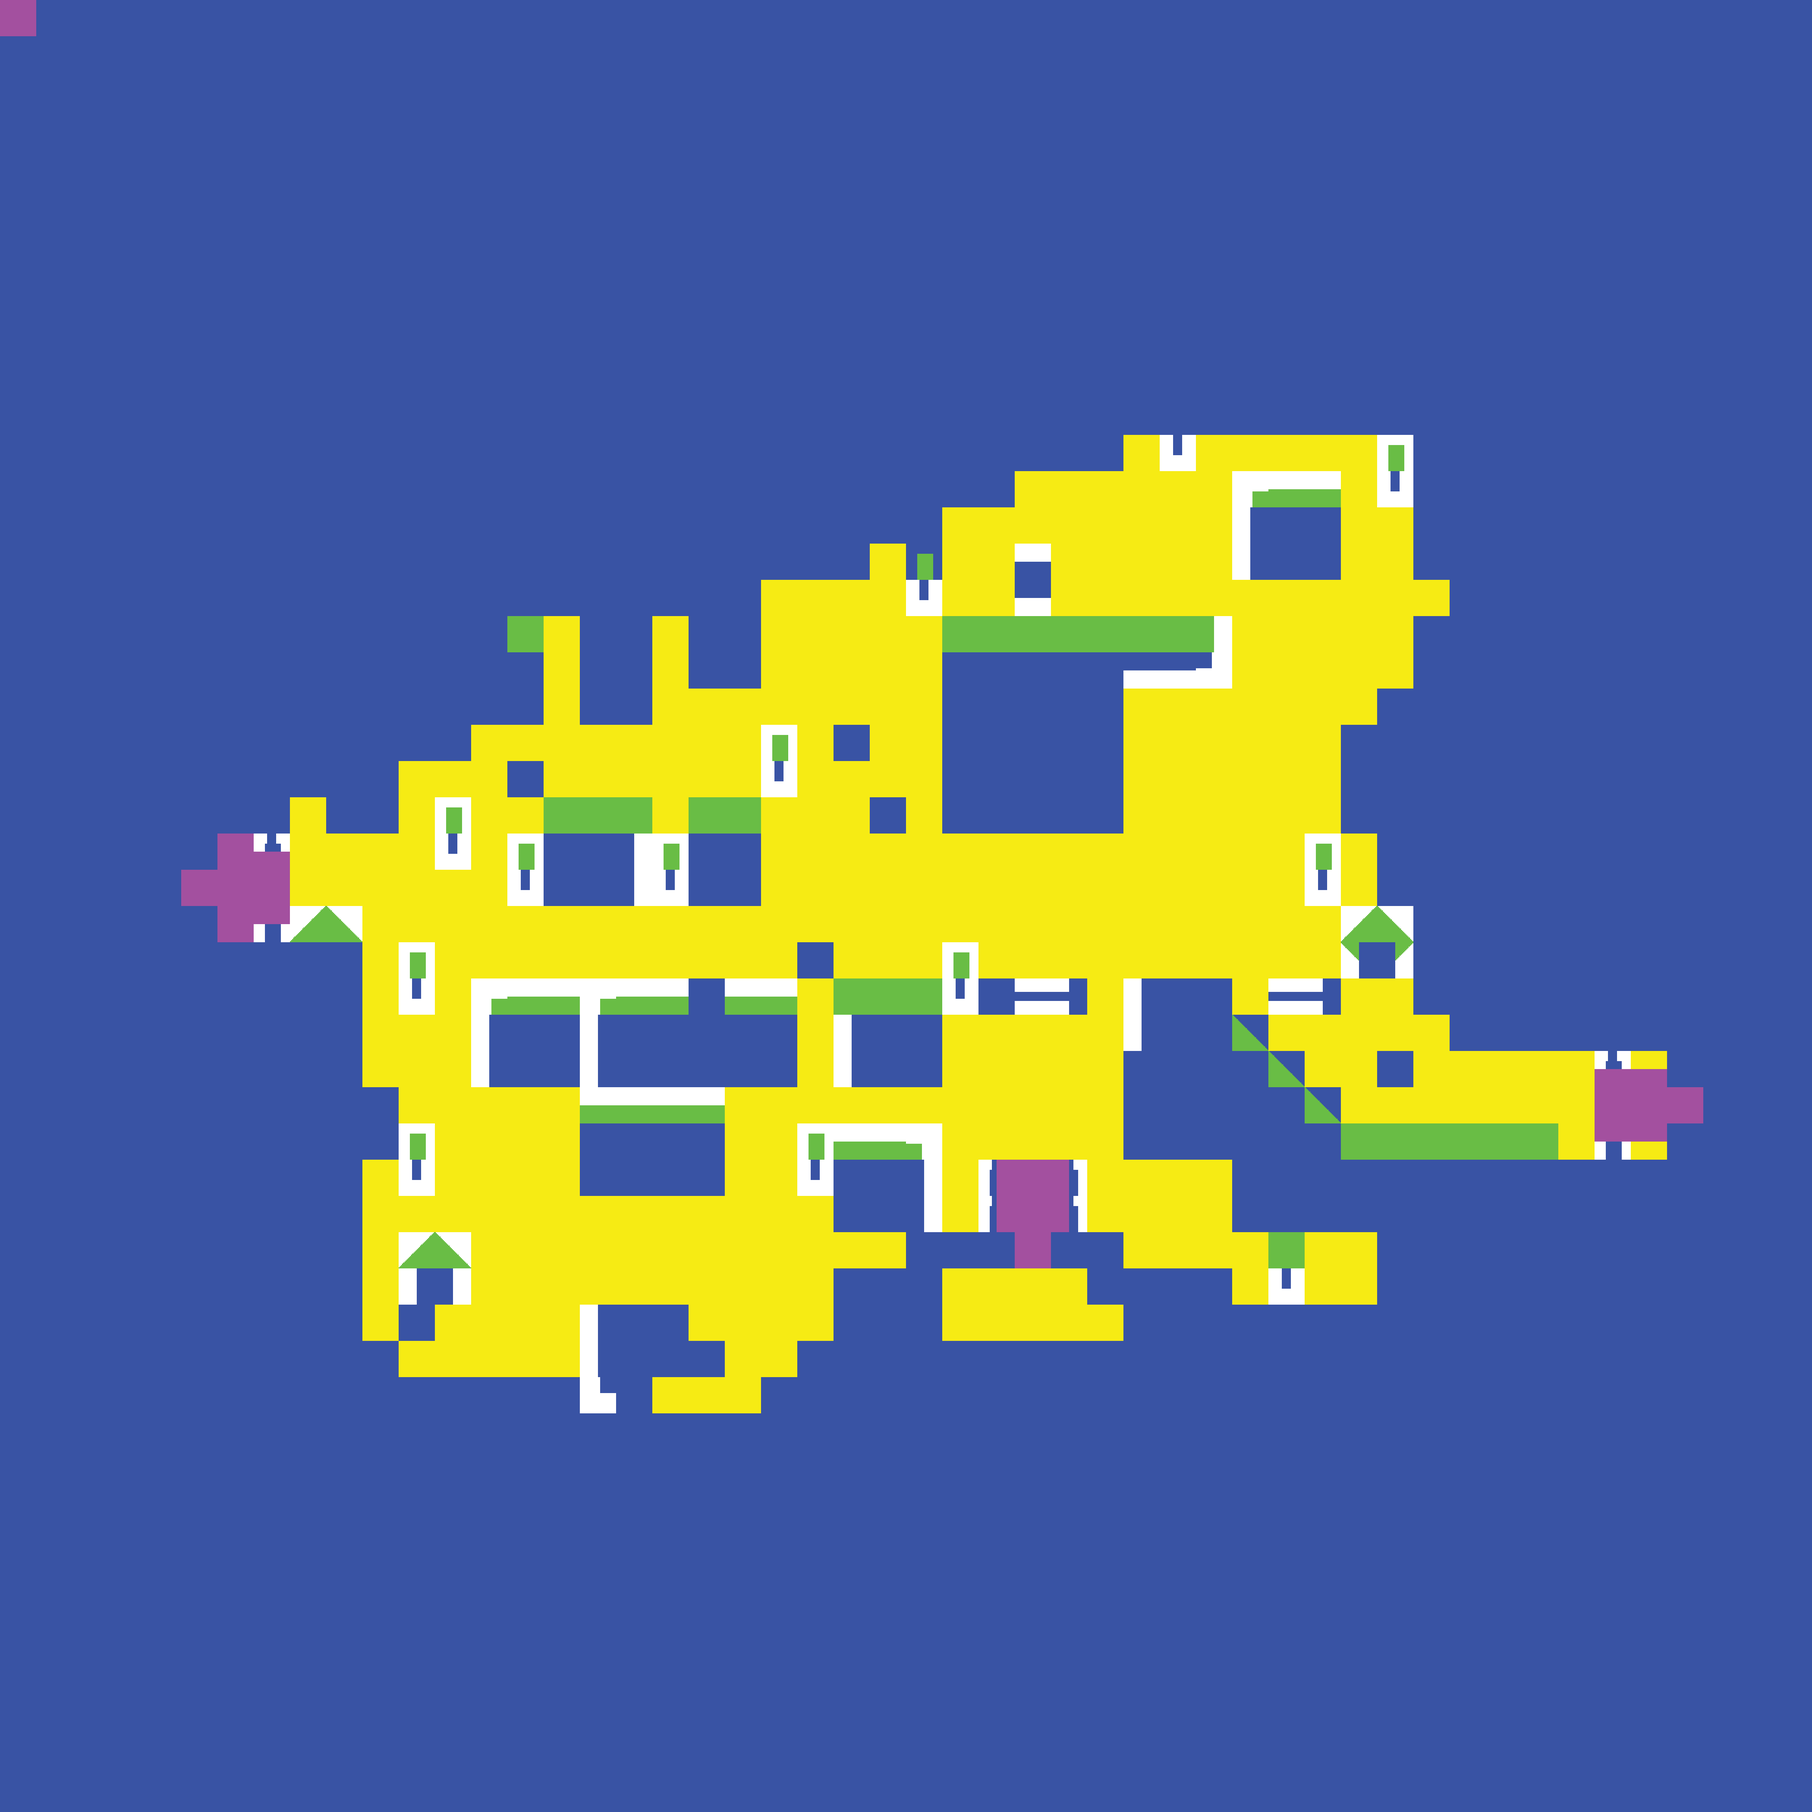
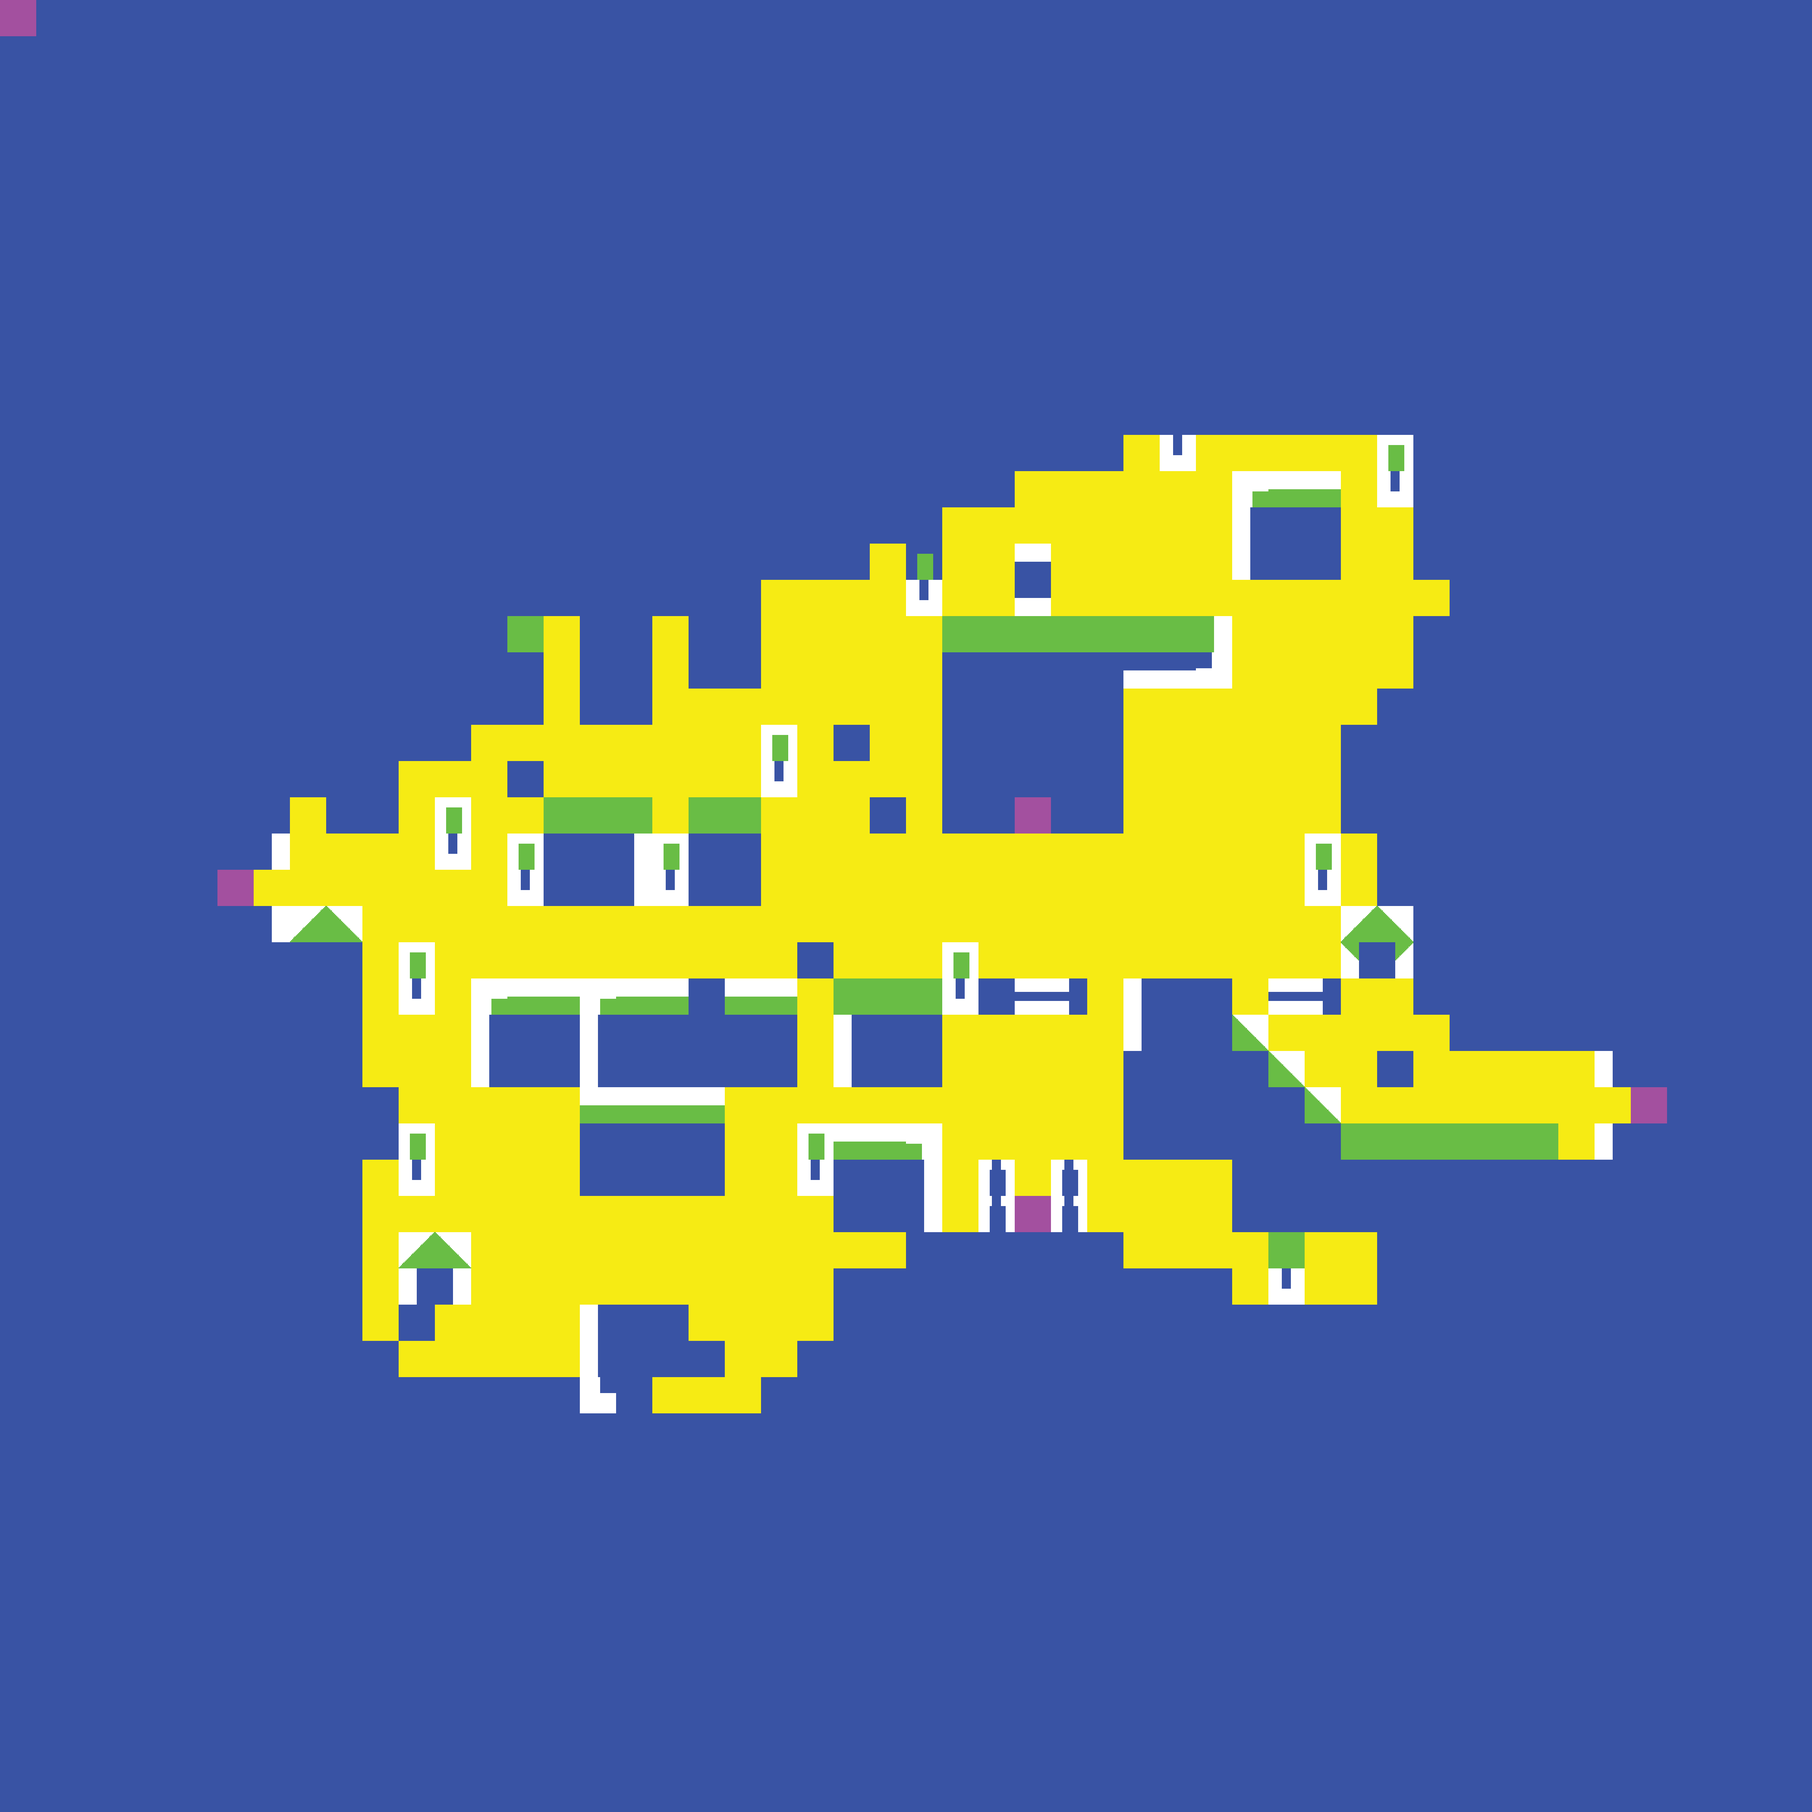
enter in car & switch with 4 maps

diff --git a/src/game/maps/directions.c b/src/game/maps/directions.c
@@ -12,8 +12,12 @@ void move_up_map(rpg_t *rpg, int on_map)
     if (rpg->basic->evt->event.text.unicode ==
     (unsigned int)rpg->menu->stg->key_bnd->control[UP]->text[0]) {
         if (check_collision(rpg, UP) != COLLISION) {
-            rpg->game->in_game->map->pos_map[on_map].y += 3;
-            rpg->game->in_game->objects->car->car_pos.y += 3;
+            rpg->game->in_game->map->pos_map[on_map].y +=
+            rpg->game->in_game->map->speed
+            [rpg->game->in_game->objects->speed_status];
+            rpg->game->in_game->objects->car->car_pos.y +=
+            rpg->game->in_game->map->speed
+            [rpg->game->in_game->objects->speed_status];
         }
         sfSprite_setPosition(rpg->game->in_game->map->maps[on_map],
         rpg->game->in_game->map->pos_map[on_map]);
@@ -28,8 +32,12 @@ void move_down_map(rpg_t *rpg,int on_map)
     if (rpg->basic->evt->event.text.unicode ==
     (unsigned int)rpg->menu->stg->key_bnd->control[DOWN]->text[0]) {
         if (check_collision(rpg, DOWN) != COLLISION) {
-            rpg->game->in_game->map->pos_map[on_map].y -= 3;
-            rpg->game->in_game->objects->car->car_pos.y -= 3;
+            rpg->game->in_game->map->pos_map[on_map].y -=
+            rpg->game->in_game->map->speed
+            [rpg->game->in_game->objects->speed_status];
+            rpg->game->in_game->objects->car->car_pos.y -=
+            rpg->game->in_game->map->speed
+            [rpg->game->in_game->objects->speed_status];
         }
         sfSprite_setPosition(rpg->game->in_game->map->maps[on_map],
         rpg->game->in_game->map->pos_map[on_map]);
@@ -44,8 +52,12 @@ void move_right_map(rpg_t *rpg, int on_map)
     if (rpg->basic->evt->event.text.unicode ==
     (unsigned int)rpg->menu->stg->key_bnd->control[RIGHT]->text[0]) {
         if (check_collision(rpg, RIGHT) != COLLISION) {
-            rpg->game->in_game->map->pos_map[on_map].x -= 3;
-            rpg->game->in_game->objects->car->car_pos.x -= 3;
+            rpg->game->in_game->map->pos_map[on_map].x -=
+            rpg->game->in_game->map->speed
+            [rpg->game->in_game->objects->speed_status];
+            rpg->game->in_game->objects->car->car_pos.x -=
+            rpg->game->in_game->map->speed
+            [rpg->game->in_game->objects->speed_status];
         }
         sfSprite_setPosition(rpg->game->in_game->map->maps[on_map],
         rpg->game->in_game->map->pos_map[on_map]);
@@ -60,8 +72,12 @@ void move_left_map(rpg_t *rpg, int on_map)
     if (rpg->basic->evt->event.text.unicode ==
     (unsigned int)rpg->menu->stg->key_bnd->control[LEFT]->text[0]) {
         if (check_collision(rpg, LEFT) != COLLISION) {
-            rpg->game->in_game->map->pos_map[on_map].x += 3;
-            rpg->game->in_game->objects->car->car_pos.x += 3;
+            rpg->game->in_game->map->pos_map[on_map].x +=
+            rpg->game->in_game->map->speed
+            [rpg->game->in_game->objects->speed_status];
+            rpg->game->in_game->objects->car->car_pos.x +=
+            rpg->game->in_game->map->speed
+            [rpg->game->in_game->objects->speed_status];
         }
         sfSprite_setPosition(rpg->game->in_game->map->maps[on_map],
         rpg->game->in_game->map->pos_map[on_map]);

diff --git a/src/game/inits/init_police_maps.c b/src/game/inits/init_police_maps.c
@@ -26,6 +26,7 @@ void police_texture_map(rpg_t *rpg)
     sfTexture_getSize(in_police);
     rpg->game->in_game->map->tex_size_map[MAP_OUTSIDE_POLICE] =
     sfTexture_getSize(out_police);
+    init_warren_map(rpg);
 }
 
 void give_police_pos_map(rpg_t *rpg)
@@ -33,7 +34,7 @@ void give_police_pos_map(rpg_t *rpg)
     rpg->game->in_game->map->pos_map[MAP_INSIDE_POLICE] =
     put_in_vector2f(-1265, -959);
     rpg->game->in_game->map->pos_map[MAP_OUTSIDE_POLICE] =
-    put_in_vector2f(500, 500);
+    put_in_vector2f(-1850, -1800);
     sfSprite_setPosition(rpg->game->in_game->map->maps[MAP_INSIDE_POLICE],
     rpg->game->in_game->map->pos_map[MAP_INSIDE_POLICE]);
     sfSprite_setPosition(rpg->game->in_game->map->maps[MAP_OUTSIDE_POLICE],
@@ -41,13 +42,13 @@ void give_police_pos_map(rpg_t *rpg)
     rpg->game->in_game->map->col_real[MAP_INSIDE_POLICE] =
     put_in_vector2u(930, 485);
     rpg->game->in_game->map->col_real[MAP_OUTSIDE_POLICE] =
-    put_in_vector2u(500, 500);
+    put_in_vector2u(930, 487);
     rpg->game->in_game->map->col_real[MAP_TUTO] = put_in_vector2u(660, 540);
 }
 
 int create_police_map(rpg_t *rpg)
 {
-    int map_nbr = 4;
+    int map_nbr = 6;
 
     if ((rpg->game->in_game->map->maps = malloc(sizeof(sfSprite *) * map_nbr))
     == NULL || (rpg->game->in_game->map->collisions = malloc(sizeof(sfImage *)
@@ -75,5 +76,6 @@ int set_key_color(rpg_t *rpg)
     (rpg->game->in_game->map->collisions[MAP_TUTO], 0, 0);
     rpg->game->in_game->map->color[PASS] = sfImage_getPixel
     (rpg->game->in_game->map->collisions[MAP_OUTSIDE_POLICE], 0, 0);
+    rpg->game->in_game->map->status = MAP_INSIDE_POLICE;
     return (0);
 }

diff --git a/src/game/inits/init_other_maps.c b/src/game/inits/init_other_maps.c
@@ -1,0 +1,42 @@
+/*
+** EPITECH PROJECT, 2021
+** B-MUL-200-STG-2-1-myrpg-timothe.coniel
+** File description:
+** init_other_maps
+*/
+
+#include "../../../include/func_name.h"
+
+void init_pos_warren(rpg_t *rpg)
+{
+    rpg->game->in_game->map->pos_map[MAP_WARREN_BLOCK] =
+    put_in_vector2f(-1950, -1600);
+    rpg->game->in_game->map->pos_map[MAP_WARREN_NORMAL] =
+    put_in_vector2f(-1850, -1800);
+    rpg->game->in_game->map->col_real[MAP_WARREN_BLOCK] =
+    put_in_vector2u(930, 485);
+    rpg->game->in_game->map->col_real[MAP_WARREN_NORMAL] =
+    put_in_vector2u(930, 485);
+}
+
+void init_warren_map(rpg_t *rpg)
+{
+    rpg->game->in_game->map->collisions[MAP_WARREN_BLOCK] =
+    sfImage_createFromFile("assets/maps/colisions/warren_block.png");
+    sfTexture *warren_block = sfTexture_createFromFile
+    ("assets/maps/real/warren_block.png", NULL);
+    rpg->game->in_game->map->collisions[MAP_WARREN_NORMAL] =
+    sfImage_createFromFile("assets/maps/colisions/warren_unblock.png");
+    sfTexture *warren_normal = sfTexture_createFromFile
+    ("assets/maps/real/warren_unblock.png", NULL);
+
+    sfSprite_setTexture(rpg->game->in_game->map->maps[MAP_WARREN_BLOCK],
+    warren_block, sfTrue);
+    sfSprite_setTexture(rpg->game->in_game->map->maps[MAP_WARREN_NORMAL],
+    warren_normal, sfTrue);
+    rpg->game->in_game->map->tex_size_map[MAP_WARREN_NORMAL] =
+    sfTexture_getSize(warren_normal);
+    rpg->game->in_game->map->tex_size_map[MAP_WARREN_BLOCK] =
+    sfTexture_getSize(warren_block);
+    init_pos_warren(rpg);
+}

diff --git a/src/game/inits/init_car.c b/src/game/inits/init_car.c
@@ -10,8 +10,8 @@
 void set_pos_car(rpg_t *rpg)
 {
     if (rpg->game->in_game->objects->car->status != 0) {
-        rpg->game->in_game->objects->car->car_pos.x = 360.0;
-        rpg->game->in_game->objects->car->car_pos.y = 180.0;
+        rpg->game->in_game->objects->car->car_pos.x = 490.0;
+        rpg->game->in_game->objects->car->car_pos.y = 300.0;
         rpg->game->in_game->objects->car->status = 0;
     }
 }
@@ -22,7 +22,7 @@ void print_car(rpg_t *rpg)
     rpg->game->in_game->objects->car->car_line <= 1) {
         rpg->basic->cnf->clk->time_tutorial = 0;
         rpg->game->in_game->objects->car->rect_car.left =
-        rpg->game->in_game->objects->car->car_line * 365.7;
+        (rpg->game->in_game->objects->car->car_line == 1) ? 495 : 130.7;
         rpg->game->in_game->objects->car->car_line++;
     }
     rpg->game->in_game->objects->car->car_line =
@@ -38,10 +38,10 @@ void print_car(rpg_t *rpg)
 
 void init_rect_car(objects_t *obj)
 {
-    obj->car->rect_car.height = 365.7;
-    obj->car->rect_car.width = 365.7;
-    obj->car->rect_car.left = 0;
-    obj->car->rect_car.top = 0;
+    obj->car->rect_car.height = 128;
+    obj->car->rect_car.width = 103;
+    obj->car->rect_car.left = 130.7;
+    obj->car->rect_car.top = 118;
     obj->car->car_line = 0;
     obj->car->status = -1;
     sfSprite_setTextureRect(obj->car->car, obj->car->rect_car);

diff --git a/src/game/maps/switch_map.c b/src/game/maps/switch_map.c
@@ -10,14 +10,28 @@
 void place_outside_police(rpg_t *rpg)
 {
     printf("OUTSIDE\n");
-    sfSprite_setPosition(rpg->game->in_game->map->maps[MAP_OUTSIDE_POLICE], put_in_vector2f(-1200, -700));
     rpg->game->in_game->map->status = MAP_OUTSIDE_POLICE;
+}
+
+void choose_map_outside_police(rpg_t *rpg)
+{
+    printf("Change x = %f & y = %f\n", rpg->game->in_game->map->pos_map[MAP_OUTSIDE_POLICE].x, rpg->game->in_game->map->pos_map[MAP_OUTSIDE_POLICE].y);
+    if (rpg->game->in_game->map->pos_map[MAP_OUTSIDE_POLICE].x > 200 &&
+    rpg->game->in_game->map->pos_map[MAP_OUTSIDE_POLICE].y < -1500) {
+        printf("WARREN\n");
+        rpg->game->in_game->map->status = MAP_WARREN_BLOCK;
+    }
+    //x = 280 & y = -1860
 }
 
 void change_map(rpg_t *rpg)
 {
-    if (rpg->game->in_game->map->status == MAP_TUTO)
+    if (rpg->game->in_game->map->status == MAP_TUTO) {
         rpg->menu->status = ON_MENU;
+        rpg->game->in_game->map->status = MAP_INSIDE_POLICE;
+    }
     if (rpg->game->in_game->map->status == MAP_INSIDE_POLICE)
         place_outside_police(rpg);
+    if (rpg->game->in_game->map->status == MAP_OUTSIDE_POLICE)
+        choose_map_outside_police(rpg);
 }

diff --git a/src/game/car.c b/src/game/car.c
@@ -1,0 +1,30 @@
+/*
+** EPITECH PROJECT, 2021
+** B-MUL-200-STG-2-1-myrpg-timothe.coniel
+** File description:
+** tuto
+*/
+
+#include "../../include/func_name.h"
+
+void enterred_in_car(rpg_t *rpg)
+{
+    static float nbr = 0;
+
+    nbr += rpg->basic->cnf->clk->time_loop;
+    if (rpg->basic->evt->event.text.unicode ==
+    (unsigned int)rpg->menu->stg->key_bnd->control[CAR]->text[0] &&
+    nbr >= 0.2 && point_distcance(put_in_vector2f(660, 540),
+    put_in_vector2f(rpg->game->in_game->objects->car->car_pos.x + 50,
+    rpg->game->in_game->objects->car->car_pos.y + 50)) <= 60) {
+        rpg->game->in_game->objects->speed_status =
+        (rpg->game->in_game->objects->speed_status != CAR_SPEED) ? CAR_SPEED :
+        WALK_SPEED;
+        nbr = 0;
+        rpg->game->in_game->map->pos_map[rpg->game->in_game->map->status] =
+        put_in_vector2f(-1700, -847);
+        sfSprite_setPosition(
+        rpg->game->in_game->map->maps[rpg->game->in_game->map->status],
+        rpg->game->in_game->map->pos_map[rpg->game->in_game->map->status]);
+    }
+}

diff --git a/src/game/inits/init_player_rect.c b/src/game/inits/init_player_rect.c
@@ -53,13 +53,18 @@ int create_player_bis(rpg_t *rpg)
 int create_player_rect(rpg_t *rpg)
 {
     if (create_player_bis(rpg) == 84 ||
-    (rpg->game->in_game->objects->players = malloc(sizeof(sfSprite *) * 5)) == NULL)
+    (rpg->game->in_game->objects->players = malloc(sizeof(sfSprite *) * 5))
+    == NULL || (rpg->game->in_game->map->speed = malloc(sizeof(int) * 4))
+    == NULL)
         return (MALLOC_ERROR);
     for (int i = MAXOU; i <= SYLVIE; i++) {
         rpg->game->in_game->objects->players[i] = sfSprite_create();
         sfSprite_setTexture(rpg->game->in_game->objects->players[i],
         rpg->game->in_game->objects->player_tex[i], sfTrue);
     }
+    rpg->game->in_game->map->speed[WALK_SPEED] = 3;
+    rpg->game->in_game->map->speed[RUN_SPEED] = 4;
+    rpg->game->in_game->map->speed[CAR_SPEED] = 5;
     return (0);
 }
 

diff --git a/include/func_name.h b/include/func_name.h
@@ -13,6 +13,7 @@
 #include <SFML/Audio.h>
 #include <stdio.h>
 #include <stdlib.h>
+#include <math.h>
 #include <unistd.h>
 
 #include "assemble.h"
@@ -83,6 +84,7 @@ int check_color(rpg_t *rpg, sfColor color);
 int check_collision(rpg_t *rpg, int direction);
 int set_key_color(rpg_t *rpg);
 int collision(rpg_t *rpg, int direction, int y);
+void init_warren_map(rpg_t *rpg);
 
 void init_inventory(rpg_t *rpg);
 void display_inventory(rpg_t *rpg);
@@ -145,5 +147,8 @@ void print_car(rpg_t *rpg);
 void detect_weapon(rpg_t *rpg);
 void drag_and_drop(rpg_t *rpg, int selected);
 void set_pos_car(rpg_t *rpg);
+void enterred_in_car(rpg_t *rpg);
+int point_distcance(sfVector2f mouse, sfVector2f map);
+void player_run(rpg_t *rpg);
 
 #endif /* !prototype */

diff --git a/src/game/tutorial/tuto_map.c b/src/game/tutorial/tuto_map.c
@@ -18,7 +18,7 @@ void print_player_move_tuto(rpg_t *rpg)
     [rpg->menu->main_menu->new_game->character_chosen], NULL);
     stopped_moving(rpg);
 }
-
+/*
 void move_up_down_tuto_map(rpg_t *rpg)
 {
     if (rpg->basic->evt->event.text.unicode ==
@@ -54,7 +54,7 @@ void move_side_tuto_map(rpg_t *rpg)
         rpg->game->in_game->map->last_pos = RIGHT;
     }
     move_up_down_tuto_map(rpg);
-}
+}*/
 
 void tuto_map(rpg_t *rpg)
 {
@@ -65,5 +65,6 @@ void tuto_map(rpg_t *rpg)
     rpg->game->in_game->map->maps[on_map], NULL);
     if (rpg->tutorial->tutorial_stat >= 1)
         print_car(rpg);
-    print_player_move_tuto(rpg);
+    if(rpg->game->in_game->objects->speed_status != CAR_SPEED)
+        print_player_move_tuto(rpg);
 }

diff --git a/src/menu/main_menu/hitbox_main_menu.c b/src/menu/main_menu/hitbox_main_menu.c
@@ -74,8 +74,10 @@ int clic1(rpg_t *rpg)
         if (((rpg->basic->cnf->mouse.x) >= adapt_x(rpg, 1242)) &&
         ((rpg->basic->cnf->mouse.y) >= adapt_y(rpg, 292)) &&
         (rpg->basic->cnf->mouse.x <= adapt_x(rpg, 1776)) &&
-        (rpg->basic->cnf->mouse.y <= adapt_y(rpg, 391)))
+        (rpg->basic->cnf->mouse.y <= adapt_y(rpg, 391))) {
             rpg->menu->status = ON_NEW_GM;
+            rpg->game->in_game->map->status = MAP_INSIDE_POLICE;
+        }
         if (((rpg->basic->cnf->mouse.x) >= adapt_x(rpg, 1242)) &&
         ((rpg->basic->cnf->mouse.y) >= adapt_y(rpg, 391)) &&
         (rpg->basic->cnf->mouse.x <= adapt_x(rpg, 1776)) &&

diff --git a/src/game/maps/run.c b/src/game/maps/run.c
@@ -1,0 +1,24 @@
+/*
+** EPITECH PROJECT, 2021
+** run
+** File description:
+** run
+*/
+
+#include "../../../include/func_name.h"
+
+void player_run(rpg_t *rpg)
+{
+    static float nbr = 0;
+
+    nbr += rpg->basic->cnf->clk->time_loop;
+    if (rpg->basic->evt->event.text.unicode ==
+    (unsigned int)rpg->menu->stg->key_bnd->control[RUN]->text[0] &&
+    nbr >= 0.2) {
+        rpg->game->in_game->objects->speed_status =
+        (rpg->game->in_game->objects->speed_status == WALK_SPEED) ?
+        RUN_SPEED : WALK_SPEED;
+        nbr = 0;
+        printf("je veux courir %d\n", rpg->game->in_game->objects->speed_status);
+    }
+}

diff --git a/src/game/maps/map_status.c b/src/game/maps/map_status.c
@@ -9,17 +9,16 @@
 
 void print_map(rpg_t *rpg, int on_map)
 {
+    player_run(rpg);
     move_left_map(rpg, on_map);
     sfRenderWindow_drawSprite(rpg->basic->wnd->my_wnd,
     rpg->game->in_game->map->maps[on_map], NULL);
-    if (rpg->game->in_game->objects->player_incar == FALSE)
-        print_player_move(rpg);
+    print_player_move(rpg);
 }
 
 void chose_map(rpg_t *rpg)
 {
     if (rpg->menu->status == ON_GAME) {
-        rpg->game->in_game->map->status = MAP_INSIDE_POLICE;
         print_map(rpg, rpg->game->in_game->map->status);
     }
 }
